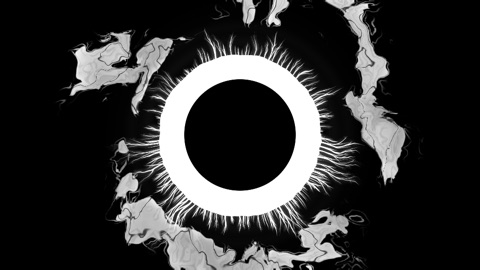
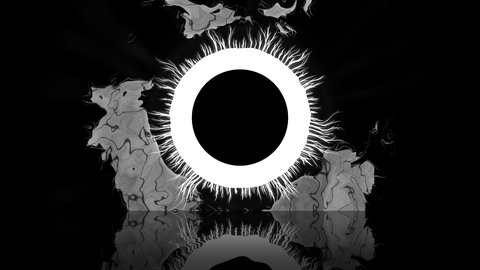
Eclipse: fix render-target feedback on resize, gentler background under Reduce motion, new thumbnail; harness bgmotion param

diff --git a/plugins/builtin/src/eclipse.js b/plugins/builtin/src/eclipse.js
@@ -122,7 +122,8 @@ export default async function create(ctx) {
       flares.step(audio.onset, audio.onsetStrength, dt, react);
       flow.step(audio.rms, audio.bassAtt, audio.onset, audio.onsetStrength, dt, react, mo.drift);
       // The background responds in proportion to the energy: calm when quiet, turbulent when loud.
-      const drive = backgroundDrive(react, flow.energy);
+      // (Reduce motion: gentler still — drift is 0.4 then, so this is 0.7.)
+      const drive = backgroundDrive(react, flow.energy) * (0.5 + 0.5 * mo.drift);
       bias.step(corona.levels, dt, drive);
       light.step(audio.bassAtt, audio.rms, audio.onset, audio.onsetStrength, dt, drive);
       pulses.step(audio.onset, audio.onsetStrength, dt, drive);
@@ -162,15 +163,20 @@ export default async function create(ctx) {
       gl.disable(gl.DEPTH_TEST);
       gl.disable(gl.BLEND);
       gl.bindVertexArray(vao);
+      const clouds = Number(p.clouds);
+      // Resize targets first: resize() binds their texture to the active unit.
+      const fw = Math.max(1, Math.ceil(w / CLOUD_DIV));
+      const fh = Math.max(1, Math.ceil(h / CLOUD_DIV));
+      if (clouds > 0 && (fields.width !== fw || fields.height !== fh)) fields.resize(fw, fh);
+      if (waterOn && (scene.width !== w || scene.height !== h)) scene.resize(w, h);
+      // Unit 1 is read by the passes after the cloud pass; never leave a render target on it.
+      gl.activeTexture(gl.TEXTURE1);
+      gl.bindTexture(gl.TEXTURE_2D, null);
       gl.activeTexture(gl.TEXTURE0);
       gl.bindTexture(gl.TEXTURE_2D, tex);
       gl.texSubImage2D(gl.TEXTURE_2D, 0, 0, 0, SECTORS, 3, gl.RED, gl.FLOAT, upload);
-      const clouds = Number(p.clouds);
       const th = cloudThreshold(clouds, mid, flow.energy);
       if (clouds > 0) {
-        const fw = Math.max(1, Math.ceil(w / CLOUD_DIV));
-        const fh = Math.max(1, Math.ceil(h / CLOUD_DIV));
-        if (fields.width !== fw || fields.height !== fh) fields.resize(fw, fh);
         gl.bindFramebuffer(gl.FRAMEBUFFER, fields.fbo);
         gl.viewport(0, 0, fw, fh);
         gl.useProgram(cloudProg.program);
@@ -190,7 +196,6 @@ export default async function create(ctx) {
       }
 
       if (waterOn) {
-        if (scene.width !== w || scene.height !== h) scene.resize(w, h);
         gl.bindFramebuffer(gl.FRAMEBUFFER, scene.fbo);
       } else gl.bindFramebuffer(gl.FRAMEBUFFER, null);
       gl.viewport(0, 0, w, h);

diff --git a/plugins/_harness/harness.js b/plugins/_harness/harness.js
@@ -21,7 +21,7 @@
  *   gain=G    scale the audio's level (waveform, rms, peak, spectrum, bands) by G, e.g. 0.05 for a
  *             quiet passage
  *   silent=1  with any audio mode: also zero the level scalars and onsets, like the host in silence
- *   motion=1  record background motion: mean |Δ luminance| (0–255) per frame over a 320 × 180
+ *   bgmotion=1  record background motion: mean |Δ luminance| (0–255) per frame over a 320 × 180
  *             readback, outside a centred circle of radius motionR × min(width, height) / 2
  *             (default 1.08), plus each frame's onset strength (0 when no onset)
  */
@@ -41,7 +41,7 @@ const w = /** @type {any} */ (window);
 const still = Number(q.get("still") ?? 0);
 const gain = Number(q.get("gain") ?? 1);
 const silentQ = q.get("silent") === "1";
-const measureMotion = q.get("motion") === "1";
+const measureMotion = q.get("bgmotion") === "1";
 const motionR = Number(q.get("motionR") ?? 1.08);
 
 /** Scale a frame's level in place (the synth rebuilds it every update). @param {any} a @param {number} g */

diff --git a/plugins/_harness/run.py b/plugins/_harness/run.py
@@ -6,7 +6,7 @@ Serve the repo root first (python3 -m http.server <port> --bind 127.0.0.1), then
         deterministic stills of each visualizer over black and over a light, busy backdrop
         (plus the backdrop alone), for checking transparency; no timing.
     uv run python plugins/_harness/run.py --port <port> --motion [eclipse ...]
-        background motion (mean |delta luminance| outside the centre circle, harness.js motion=1)
+        background motion (mean |delta luminance| outside the centre circle, harness.js bgmotion=1)
         over 5 s of deterministic frames in silence, a quiet passage and loud music, plus the beat
         response (motion in the 150 ms after a strong onset / the 150 ms before).
 """
@@ -83,7 +83,7 @@ def beat_response(motion: list[float], beats: list[float], strong: float = 0.8) 
 def motion_stats(page, base: str, q: str, radius: float) -> dict:
     out = {}
     for name, audio in MOTION_CASES.items():
-        page.goto(f"{base}?{q}&{audio}&motion=1&motionR={radius}&still={WARM + WINDOW}")
+        page.goto(f"{base}?{q}&{audio}&bgmotion=1&motionR={radius}&still={WARM + WINDOW}")
         page.wait_for_function(
             "window.__still === true || window.__errors.length > 0", timeout=120000
         )

diff --git a/plugins/_harness/README.md b/plugins/_harness/README.md
@@ -21,6 +21,10 @@ bright, busy backdrop behind the transparent canvas; default black like the shel
 `still=N` (seeded `Math.random`, fixed 60 Hz steps, stop after N frames: deterministic stills),
 `gain=G` (scale the audio's level — waveform, rms, peak, spectrum, bands — e.g. `gain=0.05` for a
 quiet passage).
+`bgmotion=1` (record background motion — mean |Δ luminance| outside a centred circle of
+`motionR` × min(width, height) / 2, default 1.08 — and onsets per frame; `run.py --motion` reports
+it over 5 s in silence, a quiet passage and loud music, plus the beat response), `silent=1` with
+any `audio` mode zeroes the levels and onsets like the host in silence.
 Contexts use the SDK's options (`alpha: true, premultipliedAlpha: true`, three clear alpha 0).
 
 `run.py` writes screenshots and `results-<browser>.json` to `out/` (git-ignored). For each
